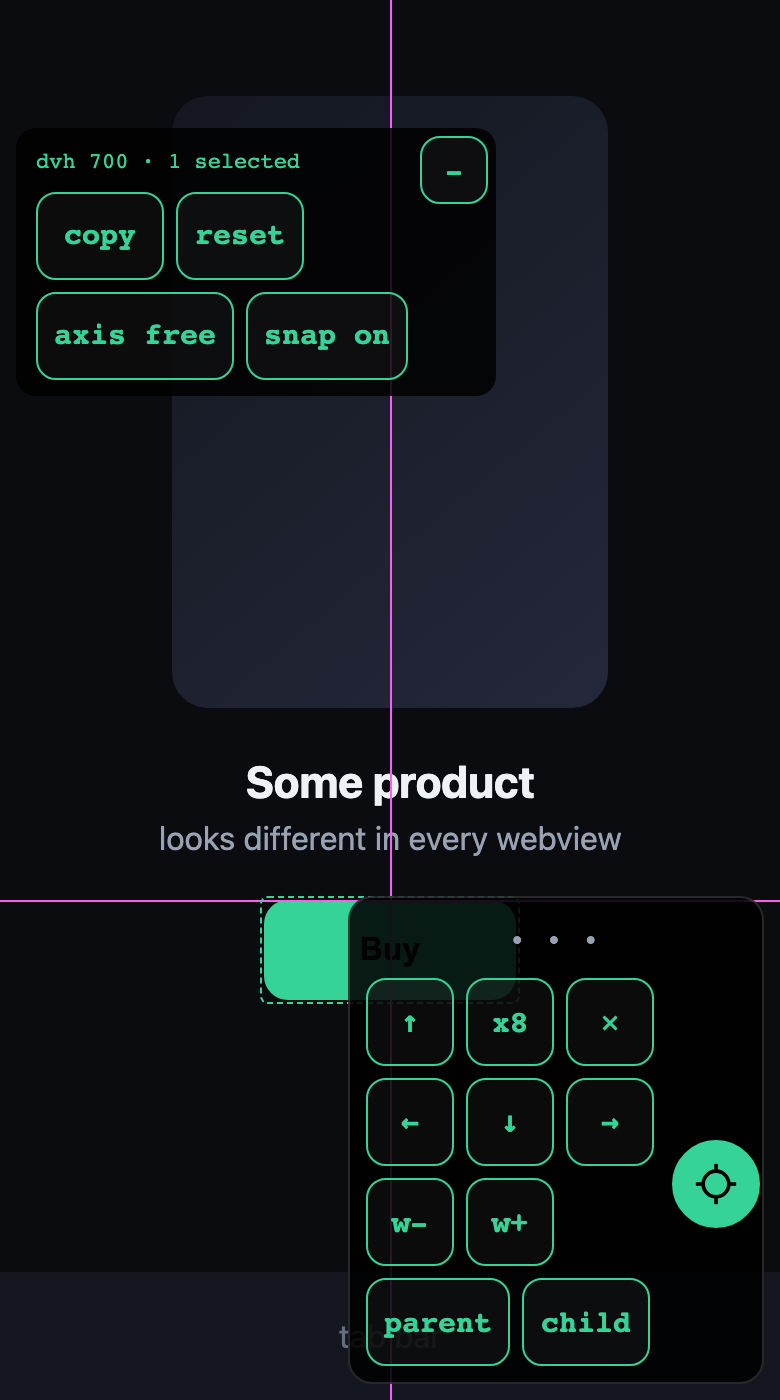
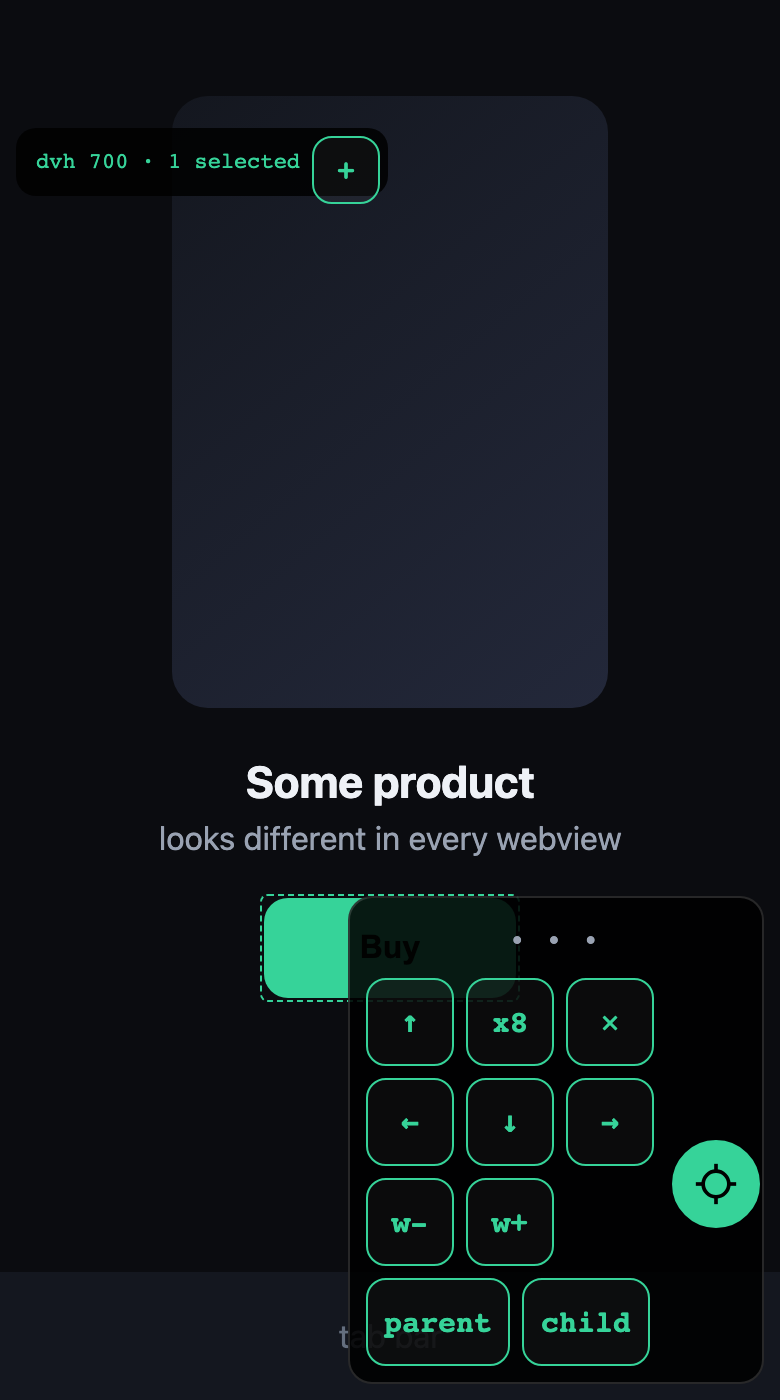
v0.5.0 - drag to move, and stop the panel from blocking the page
Two real problems found on device: (1) the interaction was wrong - you had to
select then press arrows, when the natural gesture is to drag the element, and
the 8px snap radius ate every 1px arrow nudge so things looked stuck; (2) worse,
the tool's own panel grew with the 44px buttons, covered the content and
swallowed every tap aimed at the page - so nothing could be grabbed at all.

- drag an element to move it, with snapping + guides; tap still selects
- arrows are pure precision now (no snap), snapping applies to drags
- panel and pad shells are pointer-events:none (only buttons take taps), panel
  starts collapsed
- axis/snap toggles fill when active instead of only changing their label
- debug state() reports the live gesture

diff --git a/webview-tuner.js b/webview-tuner.js
@@ -1,7 +1,8 @@
-/*! webview-tuner v0.4.0 - layout forensics + live nudging for uninspectable
- * wallet/in-app webviews. Inspect mode: tap to select, walk the DOM tree to
- * grab a whole block, nudge with axis lock and edge snapping, copy a report
- * your AI assistant can act on. MIT. https://github.com/4oko4ow/webview-tuner */
+/*! webview-tuner v0.5.0 - layout forensics + live nudging for uninspectable
+ * wallet/in-app webviews. Inspect mode: DRAG an element to move it (snaps to
+ * neighbours), tap to select, walk the DOM tree to grab a whole block, arrows
+ * for exact pixels, copy a report your AI assistant can act on.
+ * MIT. https://github.com/4oko4ow/webview-tuner */
 (function () {
   'use strict'
   // Single-instance guard MUST be set before any DOM work: hosts can include the
@@ -181,7 +182,7 @@
   function btn(label, onTap, wide) {
     var b = document.createElement('button')
     b.textContent = label
-    b.style.cssText = 'min-width:' + (wide ? 64 : 44) + 'px;min-height:44px;font:700 15px ui-monospace,monospace;color:' + GREEN + ';background:rgba(255,255,255,0.04);border:1px solid ' + GREEN + ';border-radius:10px;padding:0 8px;cursor:pointer;touch-action:manipulation'
+    b.style.cssText = 'min-width:' + (wide ? 64 : 44) + 'px;min-height:44px;font:700 15px ui-monospace,monospace;color:' + GREEN + ';background:rgba(255,255,255,0.04);border:1px solid ' + GREEN + ';border-radius:10px;padding:0 8px;cursor:pointer;touch-action:manipulation;pointer-events:auto'
     b.addEventListener('click', function (e) {
       e.stopPropagation()
       e.preventDefault()
@@ -198,7 +199,10 @@
   }
 
   var panel = document.createElement('div')
-  panel.style.cssText = 'position:fixed;top:64px;left:8px;z-index:2147483646;background:rgba(0,0,0,.85);border-radius:10px;padding:8px 10px;max-width:94vw;font:11px/1.6 ui-monospace,monospace;color:' + GREEN
+  // pointer-events none on the shell: the panel must never eat a tap meant for
+  // the page underneath (with 44px buttons it covers real content). Only its
+  // buttons opt back in, so the tool is visible without being in the way.
+  panel.style.cssText = 'position:fixed;top:64px;left:8px;z-index:2147483646;background:rgba(0,0,0,.85);border-radius:10px;padding:8px 10px;max-width:min(300px,86vw);font:11px/1.6 ui-monospace,monospace;pointer-events:none;color:' + GREEN
   panel.style.display = 'none'
   var pre = document.createElement('pre')
   pre.style.cssText = 'margin:0;white-space:pre-wrap;color:inherit;font:inherit'
@@ -227,13 +231,22 @@
   var axisBtn = btn('axis ' + axis, function (b) {
     axis = axis === 'free' ? 'y' : axis === 'y' ? 'x' : 'free'
     b.textContent = 'axis ' + axis
+    b.style.background = axis === 'free' ? 'rgba(255,255,255,0.04)' : GREEN
+    b.style.color = axis === 'free' ? GREEN : '#000'
     savePrefs()
   }, true)
+  axisBtn.style.background = axis === 'free' ? 'rgba(255,255,255,0.04)' : GREEN
+  axisBtn.style.color = axis === 'free' ? GREEN : '#000'
   var snapBtn = btn(snap ? 'snap on' : 'snap off', function (b) {
     snap = !snap
     b.textContent = snap ? 'snap on' : 'snap off'
+    // fill it when active: a label-only toggle read as "not working" on device
+    b.style.background = snap ? GREEN : 'rgba(255,255,255,0.04)'
+    b.style.color = snap ? '#000' : GREEN
     savePrefs()
   }, true)
+  snapBtn.style.background = snap ? GREEN : 'rgba(255,255,255,0.04)'
+  snapBtn.style.color = snap ? '#000' : GREEN
 
   var body = document.createElement('div')
   body.appendChild(row(copyBtn, btn('reset', function () { sel.forEach(clearOverrides) }, true)))
@@ -241,6 +254,7 @@
   panel.appendChild(body)
   // Collapse to a one-line bar: on a phone the panel itself covers the elements
   // you are trying to tune, so hiding it must be one tap away (and remembered).
+  if (prefs.collapsed == null) prefs.collapsed = true // out of the way by default
   var collapseBtn = btn(prefs.collapsed ? '+' : '-', function (b) {
     prefs.collapsed = !prefs.collapsed
     b.textContent = prefs.collapsed ? '+' : '-'
@@ -258,15 +272,18 @@
   panel.appendChild(collapseBtn)
   if (prefs.collapsed) body.style.display = 'none'
   var hint = document.createElement('div')
-  hint.textContent = 'tap an element to select. parent/child walk the DOM tree to grab a whole block. arrows move everything selected.'
+  hint.textContent = 'drag an element to move it (snaps to neighbours). tap to select, tap again to release. parent/child grab the whole block. arrows = exact pixels, no snap.'
   hint.style.cssText = 'margin-top:6px;color:' + GREY + ';font:10px ui-monospace,monospace;max-width:250px'
   if (prefs.collapsed) hint.style.display = 'none'
   panel.appendChild(hint)
 
   // floating nudge pad - appears next to the selection
   var pad = document.createElement('div')
-  pad.style.cssText = 'position:fixed;z-index:2147483646;background:rgba(0,0,0,.88);border:1px solid rgba(255,255,255,.15);border-radius:12px;padding:8px;display:none;width:190px'
+  pad.style.cssText = 'position:fixed;z-index:2147483646;background:rgba(0,0,0,.88);border:1px solid rgba(255,255,255,.15);border-radius:12px;padding:8px;display:none;width:190px;pointer-events:none'
   var step = function () { return x8 ? 8 : 1 }
+  // Arrows are PRECISION: no snapping. With an 8px snap radius a 1px nudge was
+  // immediately pulled back to the nearest edge, so the element looked stuck -
+  // snapping belongs to dragging (below), exactly like a design tool.
   var nudge = function (dx, dy, dw) {
     return function () {
       sel.forEach(function (s) {
@@ -278,7 +295,6 @@
         }
         s.ow += dw * step()
         apply(s)
-        if ((dx || dy) && !lockedX && !lockedY) snapAdjust(s)
       })
     }
   }
@@ -323,7 +339,7 @@
   // tuning on a small screen, so let it be parked anywhere - and remember where.
   var grip = document.createElement('div')
   grip.textContent = '\u2022 \u2022 \u2022'
-  grip.style.cssText = 'height:26px;display:flex;align-items:center;justify-content:center;color:' + GREY + ';font:12px ui-monospace,monospace;letter-spacing:2px;cursor:grab;touch-action:none;user-select:none'
+  grip.style.cssText = 'height:26px;display:flex;align-items:center;justify-content:center;color:' + GREY + ';font:12px ui-monospace,monospace;letter-spacing:2px;cursor:grab;touch-action:none;user-select:none;pointer-events:auto'
   var dragging = null
   grip.addEventListener('pointerdown', function (e) {
     e.stopPropagation()
@@ -388,24 +404,72 @@
     launcher.style.background = inspecting ? GREEN : 'rgba(0,0,0,.85)'
     launcher.style.color = inspecting ? '#000' : GREEN
     panel.style.display = inspecting ? 'block' : 'none'
+    // a drag must move the element, not scroll the page under it
+    document.documentElement.style.touchAction = inspecting ? 'none' : ''
     if (!inspecting) clearSelection()
   })
 
-  var tapStart = null
-  ;['pointerdown', 'pointerup', 'mousedown', 'mouseup', 'click'].forEach(function (type) {
+  // Gestures in inspect mode: DRAG moves things (the natural way to place an
+  // element, snapping as you go), a TAP without movement selects/unselects.
+  // Everything is swallowed at capture so the page underneath never reacts.
+  var press = null
+  var DRAG_START_PX = 5
+
+  function ours(t) {
+    return launcher.contains(t) || panel.contains(t) || pad.contains(t)
+  }
+
+  document.addEventListener('pointerdown', function (e) {
+    if (!inspecting || ours(e.target)) return
+    e.preventDefault()
+    e.stopPropagation()
+    press = { x: e.clientX, y: e.clientY, target: e.target, dragging: false, base: null }
+  }, true)
+
+  document.addEventListener('pointermove', function (e) {
+    if (!inspecting || !press) return
+    e.preventDefault()
+    e.stopPropagation()
+    var dx = e.clientX - press.x
+    var dy = e.clientY - press.y
+    if (!press.dragging && Math.abs(dx) < DRAG_START_PX && Math.abs(dy) < DRAG_START_PX) return
+    if (!press.dragging) {
+      press.dragging = true
+      // drag whatever is selected; if the press landed outside the selection,
+      // select that element first so a drag always moves something visible
+      var inSel = sel.some(function (s) { return s.el === press.target || s.el.contains(press.target) })
+      if (!inSel) {
+        clearSelection()
+        addToSelection(press.target)
+      }
+      press.base = sel.map(function (s) { return { ox: s.ox, oy: s.oy } })
+    }
+    sel.forEach(function (s, i) {
+      var b = press.base[i] || { ox: 0, oy: 0 }
+      if (axis !== 'y') s.ox = b.ox + Math.round(dx)
+      if (axis !== 'x') s.oy = b.oy + Math.round(dy)
+      apply(s)
+    })
+    // snap the leader; the rest keep their relative offsets
+    if (sel.length) snapAdjust(sel[0])
+  }, true)
+
+  document.addEventListener('pointerup', function (e) {
+    if (!inspecting || !press) return
+    e.preventDefault()
+    e.stopPropagation()
+    if (!press.dragging) toggle(press.target)
+    else savePrefs()
+    press = null
+  }, true)
+
+  // the page must not react to the swallowed gesture in any form
+  ;['mousedown', 'mouseup', 'click', 'pointercancel'].forEach(function (type) {
     document.addEventListener(type, function (e) {
-      if (!inspecting) return
-      if (launcher.contains(e.target) || panel.contains(e.target) || pad.contains(e.target)) return
+      if (!inspecting || ours(e.target)) return
       e.preventDefault()
       e.stopPropagation()
-      if (type === 'pointerdown') tapStart = { x: e.clientX, y: e.clientY, target: e.target }
-      if (type === 'pointerup' && tapStart) {
-        // a tap, not a scroll/drag
-        if (Math.abs(e.clientX - tapStart.x) < 10 && Math.abs(e.clientY - tapStart.y) < 10) {
-          toggle(tapStart.target)
-        }
-        tapStart = null
-      }
+      if (type === 'pointercancel') press = null
     }, true)
   })
 
@@ -419,7 +483,6 @@
         s.ox += dx * st
         s.oy += dy * st
         apply(s)
-        snapAdjust(s)
       })
       e.preventDefault()
     }
@@ -478,7 +541,7 @@
   // scraping rings out of the DOM. Also the re-entry guard.
   window.__wvtuner = {
     selection: function () { return sel.map(function (s) { return { path: selectorPath(s.el), dx: s.ox, dy: s.oy, dw: s.ow } }) },
-    state: function () { return { inspecting: inspecting, axis: axis, snap: snap, step: x8 ? 8 : 1 } },
+    state: function () { return { inspecting: inspecting, axis: axis, snap: snap, step: x8 ? 8 : 1, pressing: !!press, dragging: !!(press && press.dragging) } },
     report: function () { return metrics() },
   }
 

diff --git a/README.md b/README.md
@@ -57,20 +57,23 @@ Add one script. Open your page inside the actual webview with `?wvtune=1`.
   inert and plain taps select elements (dashed ring + floating arrow pad
   next to the selection). Tap several elements to move them together -
   nudging a CTA never activates it.
+- **Drag to move**: press an element and drag - it follows your finger and
+  snaps to its neighbours on the way. This is the main gesture; tapping selects.
 - **Walk the DOM**: `parent` / `child` step up and down the tree, so you tap
   whatever you can hit and then grab the whole block you actually want to move
   instead of hunting a 12px target.
-- **Nudge live**: pad arrows move the selection by the pixel (`x8` for 8px
-  steps, hardware arrows + Shift too), width steppers resize. Overrides use
-  the CSS `translate` property, so they compose with existing transform
-  animations instead of clobbering them.
+- **Arrows for precision**: pad arrows move by exactly 1px (`x8` for 8px,
+  hardware arrows + Shift too) with snapping off, so a nudge is never pulled
+  back. Width steppers resize. Overrides use the CSS `translate` property, so
+  they compose with existing transform animations instead of clobbering them.
 - **Axis lock**: `axis free / y / x` - lock movement to one direction so a
   vertical tune never drifts sideways.
 - **Snapping**: edges and centers snap to siblings and the parent within 8px,
   with a guide line - hand-nudged layouts come out symmetrical, not one px off.
 - **Built for a phone**: 44px touch targets, the pad drags anywhere by its
-  grip, the panel collapses to one line, and axis/snap/pad position/collapsed
-  persist across reloads (localStorage).
+  grip, the panel starts collapsed and never blocks the page (its shell is
+  transparent to taps - only the buttons take them), and axis/snap/pad
+  position/collapsed persist across reloads (localStorage).
 - **Copy for AI**: one button copies a text report - metrics, a CSS selector
   path for the element, its box, the offsets you chose, URL and user agent.
   Paste it to Claude (or any assistant working on your code) and it knows

diff --git a/CHANGELOG.md b/CHANGELOG.md
@@ -4,6 +4,20 @@ The version lives in the first line of `webview-tuner.js`
 (`/*! webview-tuner vX.Y.Z`). Agents compare a project's copy against the
 version on `main` and offer the update - see SKILL.md phase 0.
 
+## 0.5.0
+
+- **drag to move**: press an element and drag it - the natural gesture, with
+  snapping and guides while you go. Tapping still selects; the arrows are now
+  pure precision.
+- **arrows no longer snap**: an 8px snap radius was eating every 1px nudge, so
+  elements looked stuck. Snapping belongs to dragging (like a design tool).
+- **fix: the tool's own panel was blocking the page.** With 44px buttons the
+  panel covered real content and swallowed every tap aimed underneath - so
+  nothing could be grabbed. The panel and pad shells are now transparent to
+  pointer events (only their buttons take taps), and the panel starts collapsed.
+- axis / snap toggles show their state by filling, not by label alone
+- `state()` in the debug API also reports the live gesture (pressing/dragging)
+
 ## 0.4.0
 
 - `parent` / `child` walk the DOM tree: tap any easy target, then step up to the

diff --git a/SKILL.md b/SKILL.md
@@ -60,7 +60,9 @@ Tell them, in one short message:
    inert, plain taps now SELECT elements (dashed ring + floating arrow pad).
    Tap more elements to select several - arrows move ALL of them together.
    Tap a selected element again to unselect, `✕` clears everything.
-   Arrows move by 1px (`x8` toggles 8px), `w-`/`w+` resize.
+   To move something, DRAG it - it follows the finger and snaps to neighbours.
+   Arrows are precision: exactly 1px (`x8` toggles 8px), no snapping, `w-`/`w+`
+   resize.
    `parent` / `child` walk the DOM tree - tell them to tap any easy target and
    step UP to the block they mean, rather than fighting a tiny element.
    `axis free/y/x` locks the direction; `snap on` snaps edges and centers to
